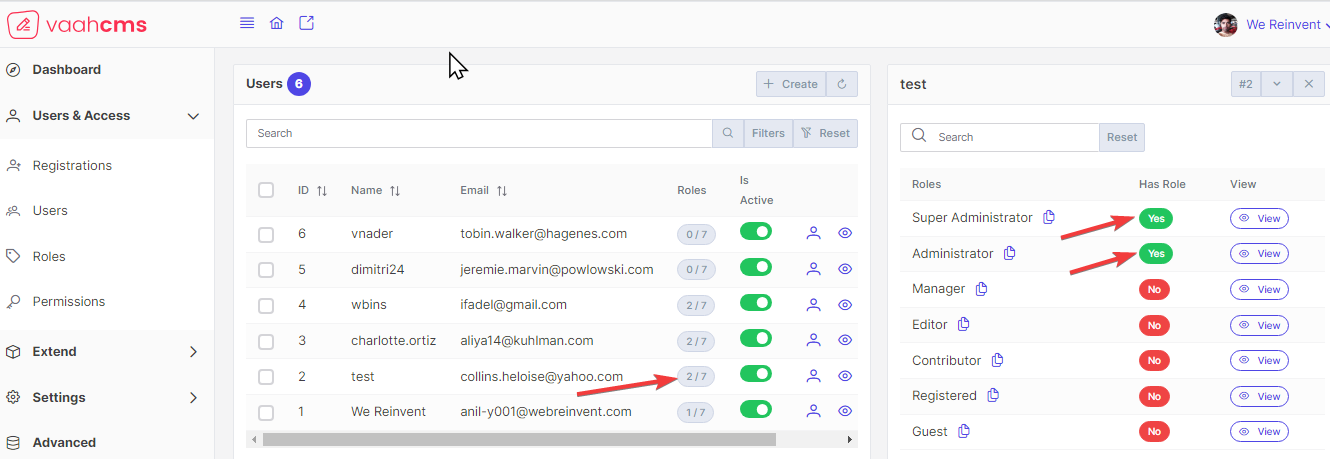
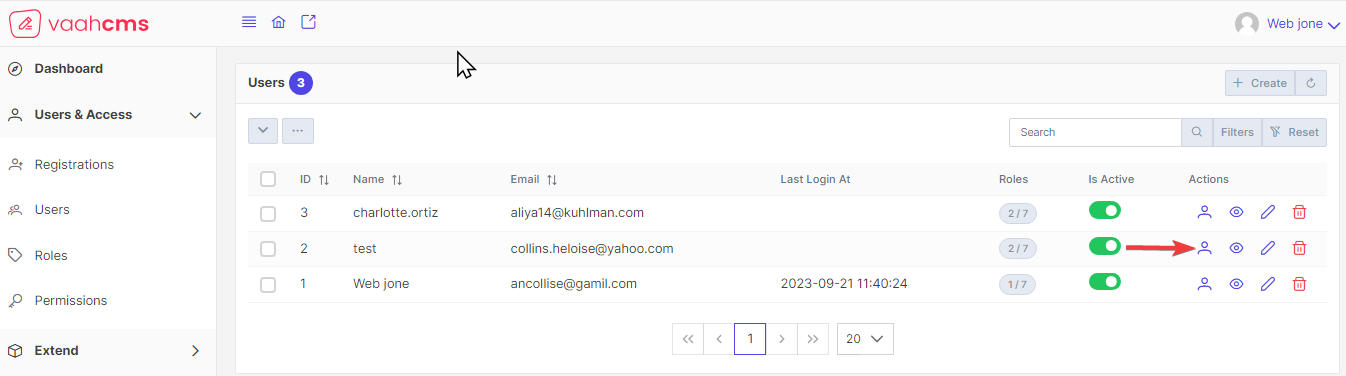
Update: change content and image

diff --git a/content/2.vaahcms-2/4.the-basics/4.user-&-access/2.users.md b/content/2.vaahcms-2/4.the-basics/4.user-&-access/2.users.md
@@ -68,18 +68,17 @@ Impersonating a user refers to the ability for an administrator or privileged us
 
 During the impersonation process, the administrator's privileges are temporarily replaced with the privileges of the user being impersonated. This means that the administrator can perform actions and access resources as if they were the user, without needing to know or change the user's password.
 
+Click on the `user icon` button for the user you want to impersonate.
 
-first, click on the select user role then click on the Super Administrator and  Administrator. Check the below image.
-
+::alert{type="warning"}
+NOTE   
+Only those users can impersonation who have permission of `can-impersonate-users`.
+::
 
 <img src="/images/users-7.png">
 
-Now click on the user. Impersonation is typically a privileged feature available only to authorized administrators or users with specific roles or permissions.
-
+After completing these steps, you will be able to access the impersonated user's account and perform actions on their behalf. To exit the impersonation mode, simply click on the `Leave` button, as shown in the image below.
 <img src="/images/users-8.png">
-
-You are impersonate user. You can check user name which is impersonated in the right corner of the screen window and you can check all data and other things of this user. For leave this user click on the leave button.
-<img src="/images/users-9.png">
 
 
 
@@ -93,6 +92,7 @@ You are impersonate user. You can check user name which is impersonated in the r
 | Can Delete Users                      | This will allow user to delete anything in the user section. |
 | Can Manage Users                      | This will allow user to manage anything in the user section. |
 | Can See Users Contact Details         | This will allow user to view contact (email, mobile) detail in the user section. |
+| Can Impersonate Users                 | this will allow user to impersonate users. |
 
 ## Files
 
